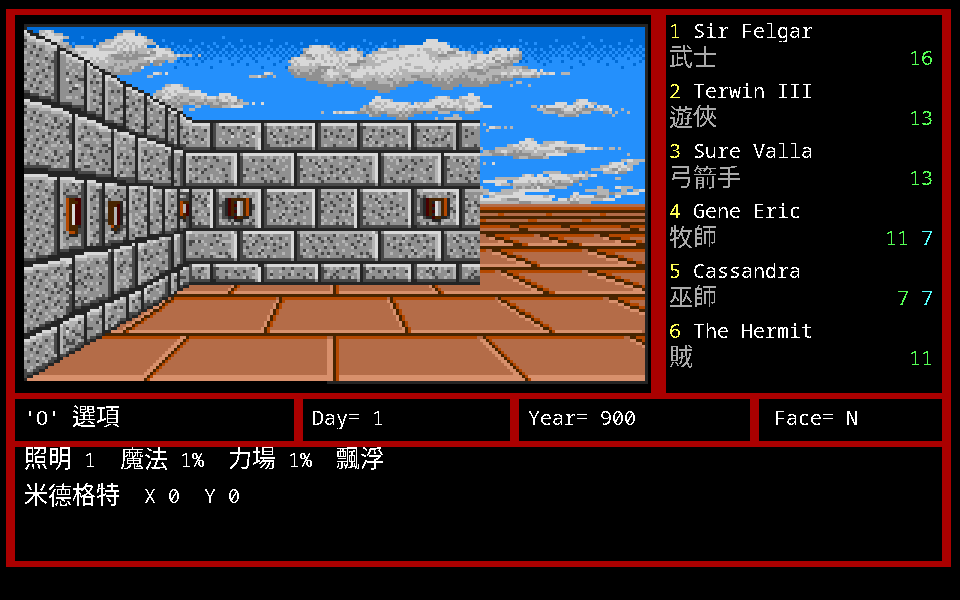
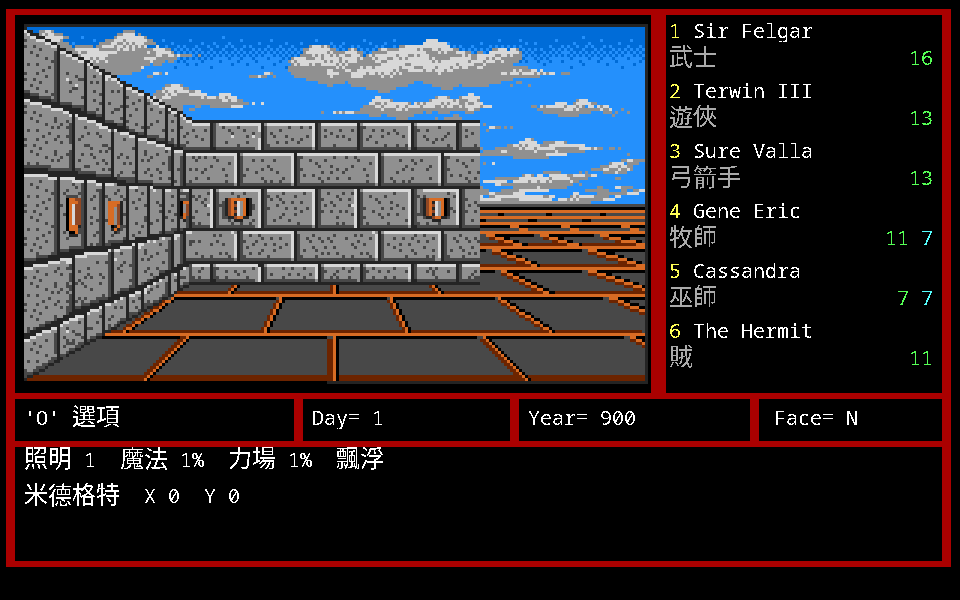
re: Mega Drive 視野與執行時的緩衝區逐像素相同；調色盤是第 2 條
拿 BlastEm 走到地城 (14,8) 面西取樣，把執行時的視野格子陣列餵進
`tools/mdscene.py` 的 compose，組出來的 208×120 與模擬器自己的組合緩衝區
**24,960 個像素全部相同**（非透空的 9,866 個也全中）。這一條同時驗掉了
落點表、索引算式、疊圖順序與素材解碼。

調色盤定案：**第 2 條（`0x6FC2A`）**，不是先前寫的第 0 條。判準是視野那塊
nametable 的項值 bit14–13 ＝ 10；再拿執行時的 CRAM 對回去，第 2 條與
`0x6FC2A` 的每個 3-bit 分量差剛好右移 2 位（光照調暗），十六格全中，
換第 1 條只有 14/16。**「畫出來像合理的畫面」不是證據** —— 四條線畫出來
都合理，差別只在雲是白的還是土黃的。推翻紀錄進 CONTEXT §5。

順帶三件執行時才看得到的事：`sub_3DE2` 只在視角改變時呼叫（靜止 60 幀
零命中）；視野貼圖表其實是 **60 個長字**，第 40–59 格與第 0–19 格逐項相同
（牆值 3 用牆值 1 的圖，差別在另外加畫的火炬）；組合緩衝區在 RAM 裡是
**VDP tile 順序**，按「每列 104 bytes」畫是雜訊 —— 但目的位址仍然是線性的，
做轉換的是 blitter，兩件事都成立。

Changed region(s): [[0.0312, 0.03, 0.6875, 0.66], [0.5625, 0.18, 0.6562, 0.21]]

diff --git a/tools/mdscene.py b/tools/mdscene.py
@@ -15,7 +15,9 @@
     索引 = 牆值 × 0x50 + (位置 − 20) × 4
 
 牆值就是視野格子陣列 `0xFFF3CA` 那一格的 2-bit 值（1–3，0 ＝ 沒有牆），
-所以一個牆值佔 20 個位置。`sub_3DE2` 裡二十個貼圖點的目的位址都是立即值，
+所以一個牆值佔 20 個位置，整張表 **60 個長字**。執行時的 RAM 傾印顯示
+**第 40–59 格與第 0–19 格逐項相同** —— 也就是**牆值 3 用的是牆值 1 的圖**，
+差別在另外加畫的火炬（`sub_34E8` 那一路）。`sub_3DE2` 裡二十個貼圖點的目的位址都是立即值，
 組合緩衝區從 `0xFF0340` 起、列距 `0x68`（104 bytes ＝ 208 像素 4bpp），
 換算出來就是 `PLACE`。
 
@@ -33,6 +35,18 @@
 畫的順序是**由遠而近**（`sub_3DE2` 的程式碼順序）：最遠的正牆 → 最內側的
 側牆柱 → 遠 → 次內柱 → 中 → 次外柱 → 近 → 最外柱。照這個順序疊才對，
 反過來近的會被遠的蓋掉。
+
+## 驗過了：與執行時的緩衝區逐像素相同
+
+拿 BlastEm 傾印的視野格子陣列餵這一支，組出來的 208×120 與模擬器自己的
+組合緩衝區 **24,960 個像素全部相同**（非透空的 9,866 個也全中）。
+重跑方式見 `docs/research/02-other-platforms.md`。
+
+**目的位址是線性的，記憶體不是。** `dest − 0xFF0340` 除以 `0x68` 得列、
+餘數乘 2 得行 —— 這樣算出來的落點是對的（上面那個 100% 就是證據）。
+但緩衝區在 RAM 裡是 **VDP 的 tile 順序**（32 bytes 一個 8×8 tile、26 個一列、
+共 16 列），把它當成「每列 104 bytes 的點陣圖」畫出來是雜訊。
+兩件事都成立，因為做轉換的是 blitter。
 """
 
 from __future__ import annotations
@@ -105,9 +119,15 @@ GRAY = [(255, 0, 255)] + [(i * 17, i * 17, i * 17) for i in range(1, 16)]
 #   3. 那八處都接著 `sub_2DBA(1, …)`（目標 1 ＝ CRAM），長度是
 #      `0x20`／`0x40`／`0x60`，也就是一次上傳一到三條。
 #
-# 第一人稱場景用第 0 條。四條是固定的一份，**不隨區域類型換** ——
-# 三套場景的顏色差異來自素材自己用哪些索引，不是換調色盤。
+# **第一人稱場景用第 2 條**（`0x6FC2A`）。判準不是「哪一條看起來對」，
+# 是視野那塊 nametable 的項值 —— bit14–13 ＝ 10 ＝ 調色盤線 2
+# （執行時從 BlastEm 的狀態檔讀出來的，見 `docs/research/02`）。
+#
+# 執行時的 CRAM 不會等於這一份：原版依**光照**把它調暗。實測沒有光源的
+# 地城那一幀，CRAM 第 2 條的每一個 3-bit 分量都是這裡的值 **>> 2**，
+# 十六格全中。所以 remake 拿沒調暗的原值烘。
 ROM_CRAM = 0x6FBEA
+VIEW_PAL_LINE = 2
 
 
 def _w(rom, p):
@@ -198,7 +218,7 @@ def compose(rom: bytes, table: dict, walls, palette=None):
         v = walls[pos]
         if not v:
             continue
-        src = table.get((v - 1) * 20 + pos)
+        src = table.get((v - 1) * 20 + pos) or table.get(pos)
         if not src:
             continue
         got = mdview.decode(rom, src)
@@ -338,7 +358,8 @@ def main() -> None:
     ap.add_argument("--compose", help="組出整幅視野的輸出目錄")
     ap.add_argument("--export", help="烘成 remake 素材包的輸出目錄")
     ap.add_argument("--cram", help="BlastEm 傾印的 CRAM（128 bytes），沒有就用 ROM 內建那份")
-    ap.add_argument("--pal-line", type=int, default=0, help="用第幾條調色盤線")
+    ap.add_argument("--pal-line", type=int, default=VIEW_PAL_LINE,
+                    help="用第幾條調色盤線（視野是第 2 條）")
     ap.add_argument("--gray", action="store_true", help="改用灰階（看索引分佈用）")
     ap.add_argument("--scale", type=int, default=2)
     args = ap.parse_args()

diff --git a/CONTEXT.md b/CONTEXT.md
@@ -349,6 +349,7 @@ LSEEK 過去。**地圖號直接索引，中間沒有轉換。**
 | Amiga 版的 `.32`／`mm2` 全部抽壞了，而**建立在它們之上的每一條結論都作廢**（`mm2` 不是 hunk 檔、A4 = 0x10000 或 0x2F324、目錄在 `0x875C`、「三個場景檔的目錄同位置代表固定緩衝區」、走 `udos.library`）| **`mm2` 就是 Amiga hunk 檔**（開頭 `00 00 03 F3`），`.32` 的目錄在**偏移 0**，調色盤緊接其後。舊抽取程式沒有剝掉 OFS 資料區塊那 24 bytes 的標頭 —— **長度正確、內容從第 1 個位元組就錯** | 抽 `libs/` 時發現舊的抽取只做了根目錄，重寫成會遞迴的 `tools/adf.py`；新抽出來的 `mm2` 開頭是 hunk magic，與舊檔第 1 個位元組就不同。**壞資料看起來完全像「壓縮過的資料」** —— 熵合理、有疑似結構、自相關量得到週期，於是花了很多輪在對垃圾做解壓實驗。教訓寫成規則：**拿到抽出來的檔案，先驗一個與內容無關的外部判準**（可執行檔的 magic、已知檔頭），不要直接開始解格式 |
 | Amiga 版 `mm2` 的 A4 = 0x10000，四個檔名逐字精確命中所以值是對的 | **A4 = 0x2F324**（thunk 表起點 `0x2732C` + 0x7FF8）。定址窗 `[0x27324, 0x37324)` 在資料段與 BSS 上，**蓋不到程式段裡的檔名表**（0x85C2–0x8716），所以那些字串本來就不是靠 A4 取的 | 「命中檔名」不是驗證：A4 的窗有 64 KB，任何一個 A4 都會讓一堆位移落進某個字串裡。改看結構就一次定案 —— 3,237 條 `jsr (d16,a4)` 的位移有 236/249 是 6 的倍數、最小值恰為 `−0x7FF8`，6 bytes 一格就是 `jmp abs.l`，檔案裡唯一那張表在 `0x2732C` |
 | 角色記錄 `+38` 的 `0x01`／`0x02`／`0x20` 與整個位元組 `0xFF` 語意未知，只知道誰造成它們 | **`0x01` 詛咒、`0x02` 沈默、`0x20` 麻痺、`0xFF` 抹消**（`is cursed`／`is silenced`／`is paralyzed`／`is eradicated!!`）| `2COMBAT` 的 `ds:1456`（位元值）與 `ds:145C`（訊息索引）把位元直接配到 `ds:106E` 的十六則訊息；另一條獨立證據是特殊攻擊三十路跳表的 case 1–16 與那張訊息表逐項對齊。**先前只從「哪支法術清哪幾位」單向推，治不到的位元就永遠推不出來** —— 反方向（誰造成它）才有答案 |
+| Mega Drive 第一人稱視野用 ROM `0x6FBEA` 的**第 0 條**調色盤（拿它畫出來灰石、白雲、赭紅地磚，整幅自洽）| **用的是第 2 條**（`0x6FC2A`）| 視野那塊 nametable 的項值 bit14–13 ＝ 10 ＝ 調色盤線 2；再拿執行時的 CRAM 對回去，第 2 條與 `0x6FC2A` 的每個 3-bit 分量差剛好右移 2 位（光照調暗），十六格全中，換第 1 條只有 14/16。**「畫出來像合理的畫面」不是證據** —— 四條線畫出來都合理，差別只在雲是白的還是土黃的；要分辨只能看誰參考它、以及執行時實際載進 CRAM 的是哪一條 |
 
 DGROUP 那條的教訓獨立成一條規則：**段落屬性描述的是載入器被告知了什麼，
 不是檔案裡有什麼。** 要判斷某塊資料有沒有初值，量實體檔案。

diff --git a/docs/todo.md b/docs/todo.md
@@ -53,7 +53,7 @@ remake 少了整段機制。所以這幾項不能當成純文件工作跳過。
 | # | 項目 | 卡在哪 |
 |---|---|---|
 | ~~A1~~ | Amiga `.anm` 的動畫零件 | **解完**：72 個檔 530 個影格（72 基準圖 ＋ 458 零件）與 `0x31` 的動畫表都解出來並接進 remake。見 [`research/02`](research/02-other-platforms.md) |
-| ~~A2~~ | Mega Drive 的場景素材 | **解完並接進 `F6`**：素材、版面、地板、天空、調色盤（`0x6FBEA` 起四條 16 色）都解出來了，見 [`research/02`](research/02-other-platforms.md)。剩一項小的：哪一套素材配哪一條調色盤線 —— 方石砌那套用第 0 條已證實，粗石與戶外用第 1 條看起來合理但只是**假設**，要拿執行時的 CRAM 裁決 |
+| ~~A2~~ | Mega Drive 的場景素材 | **解完並接進 `F6`**，而且與執行時的組合緩衝區**逐像素相同**（24,960 個全中）。素材、版面、地板、天空、調色盤（`0x6FC2A`，CRAM 第 2 條）都定案，見 [`research/02`](research/02-other-platforms.md) |
 | ~~A3~~ | 片頭疊圖的換格週期與觸發規則 | **解完**：`ds:18D8` 是 47 步的固定清單、`ds:1936`／`ds:1954` 是落點，一步 700 個 tick（PIT 除數 `0x0400` ⇒ 0.601 秒）。remake 照它播。見 [`formats/04`](formats/04-graphics.md) |
 
 ## 5. 已經沒有未解項的區塊
